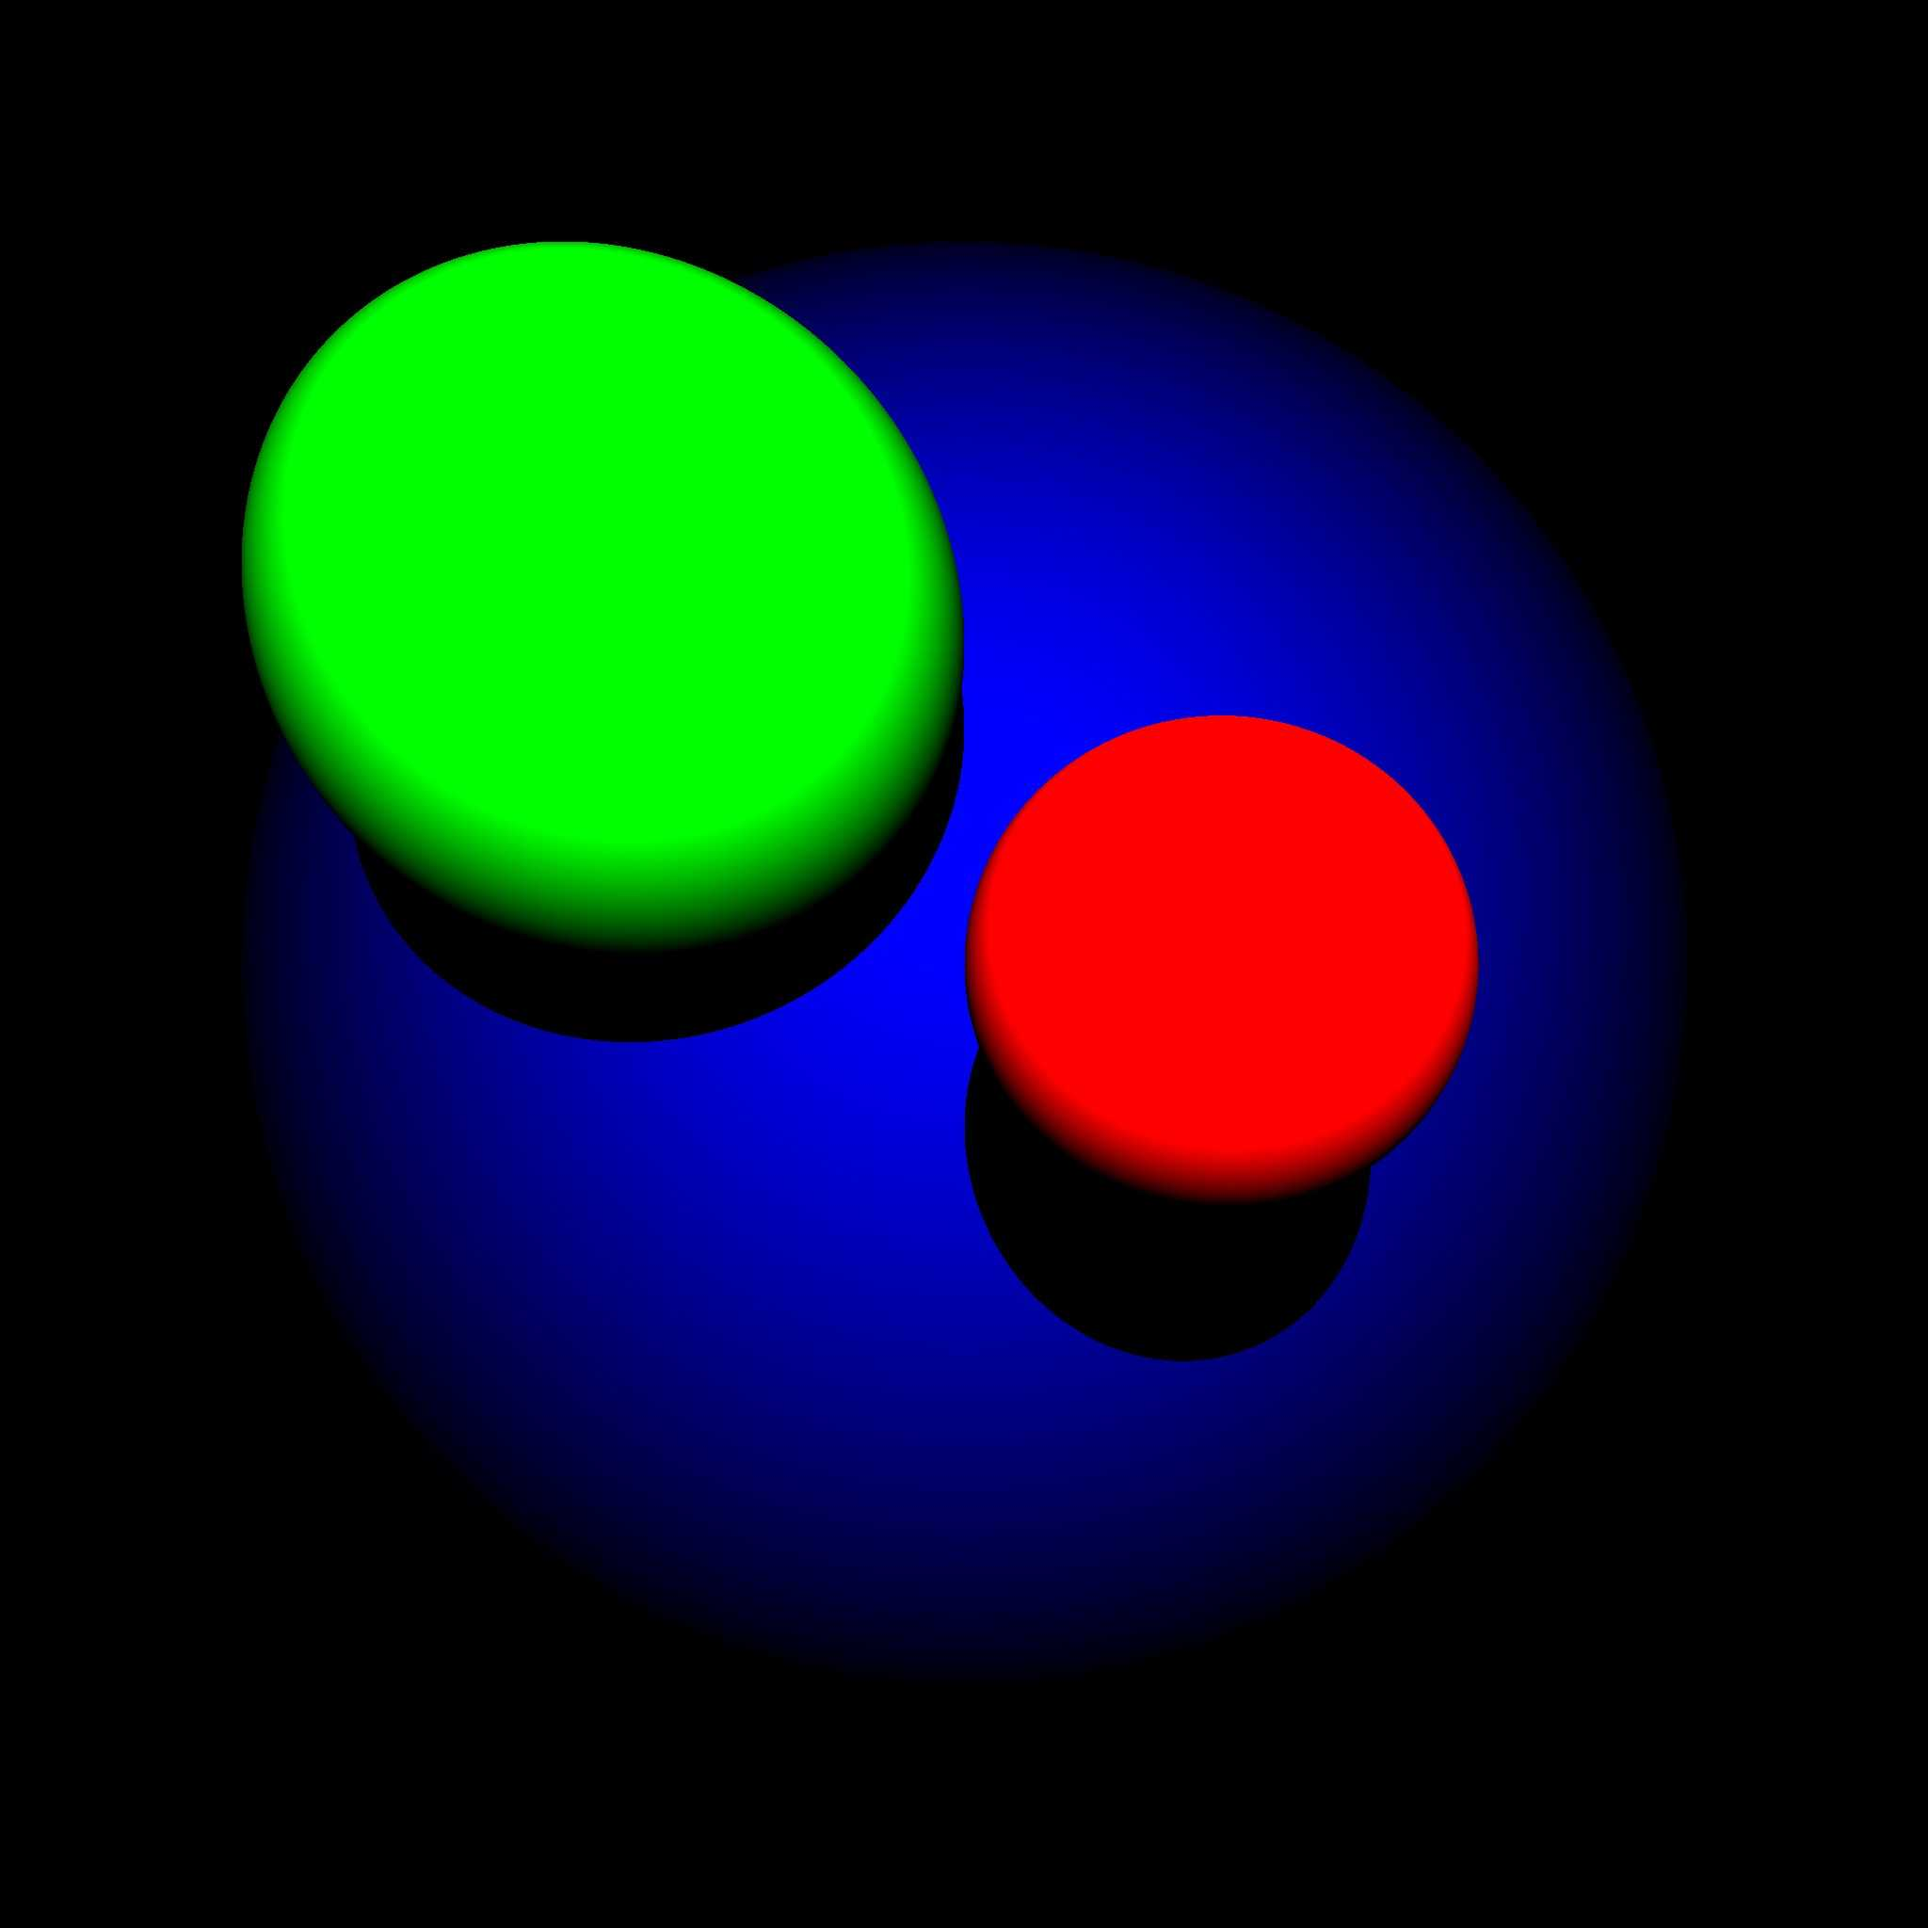
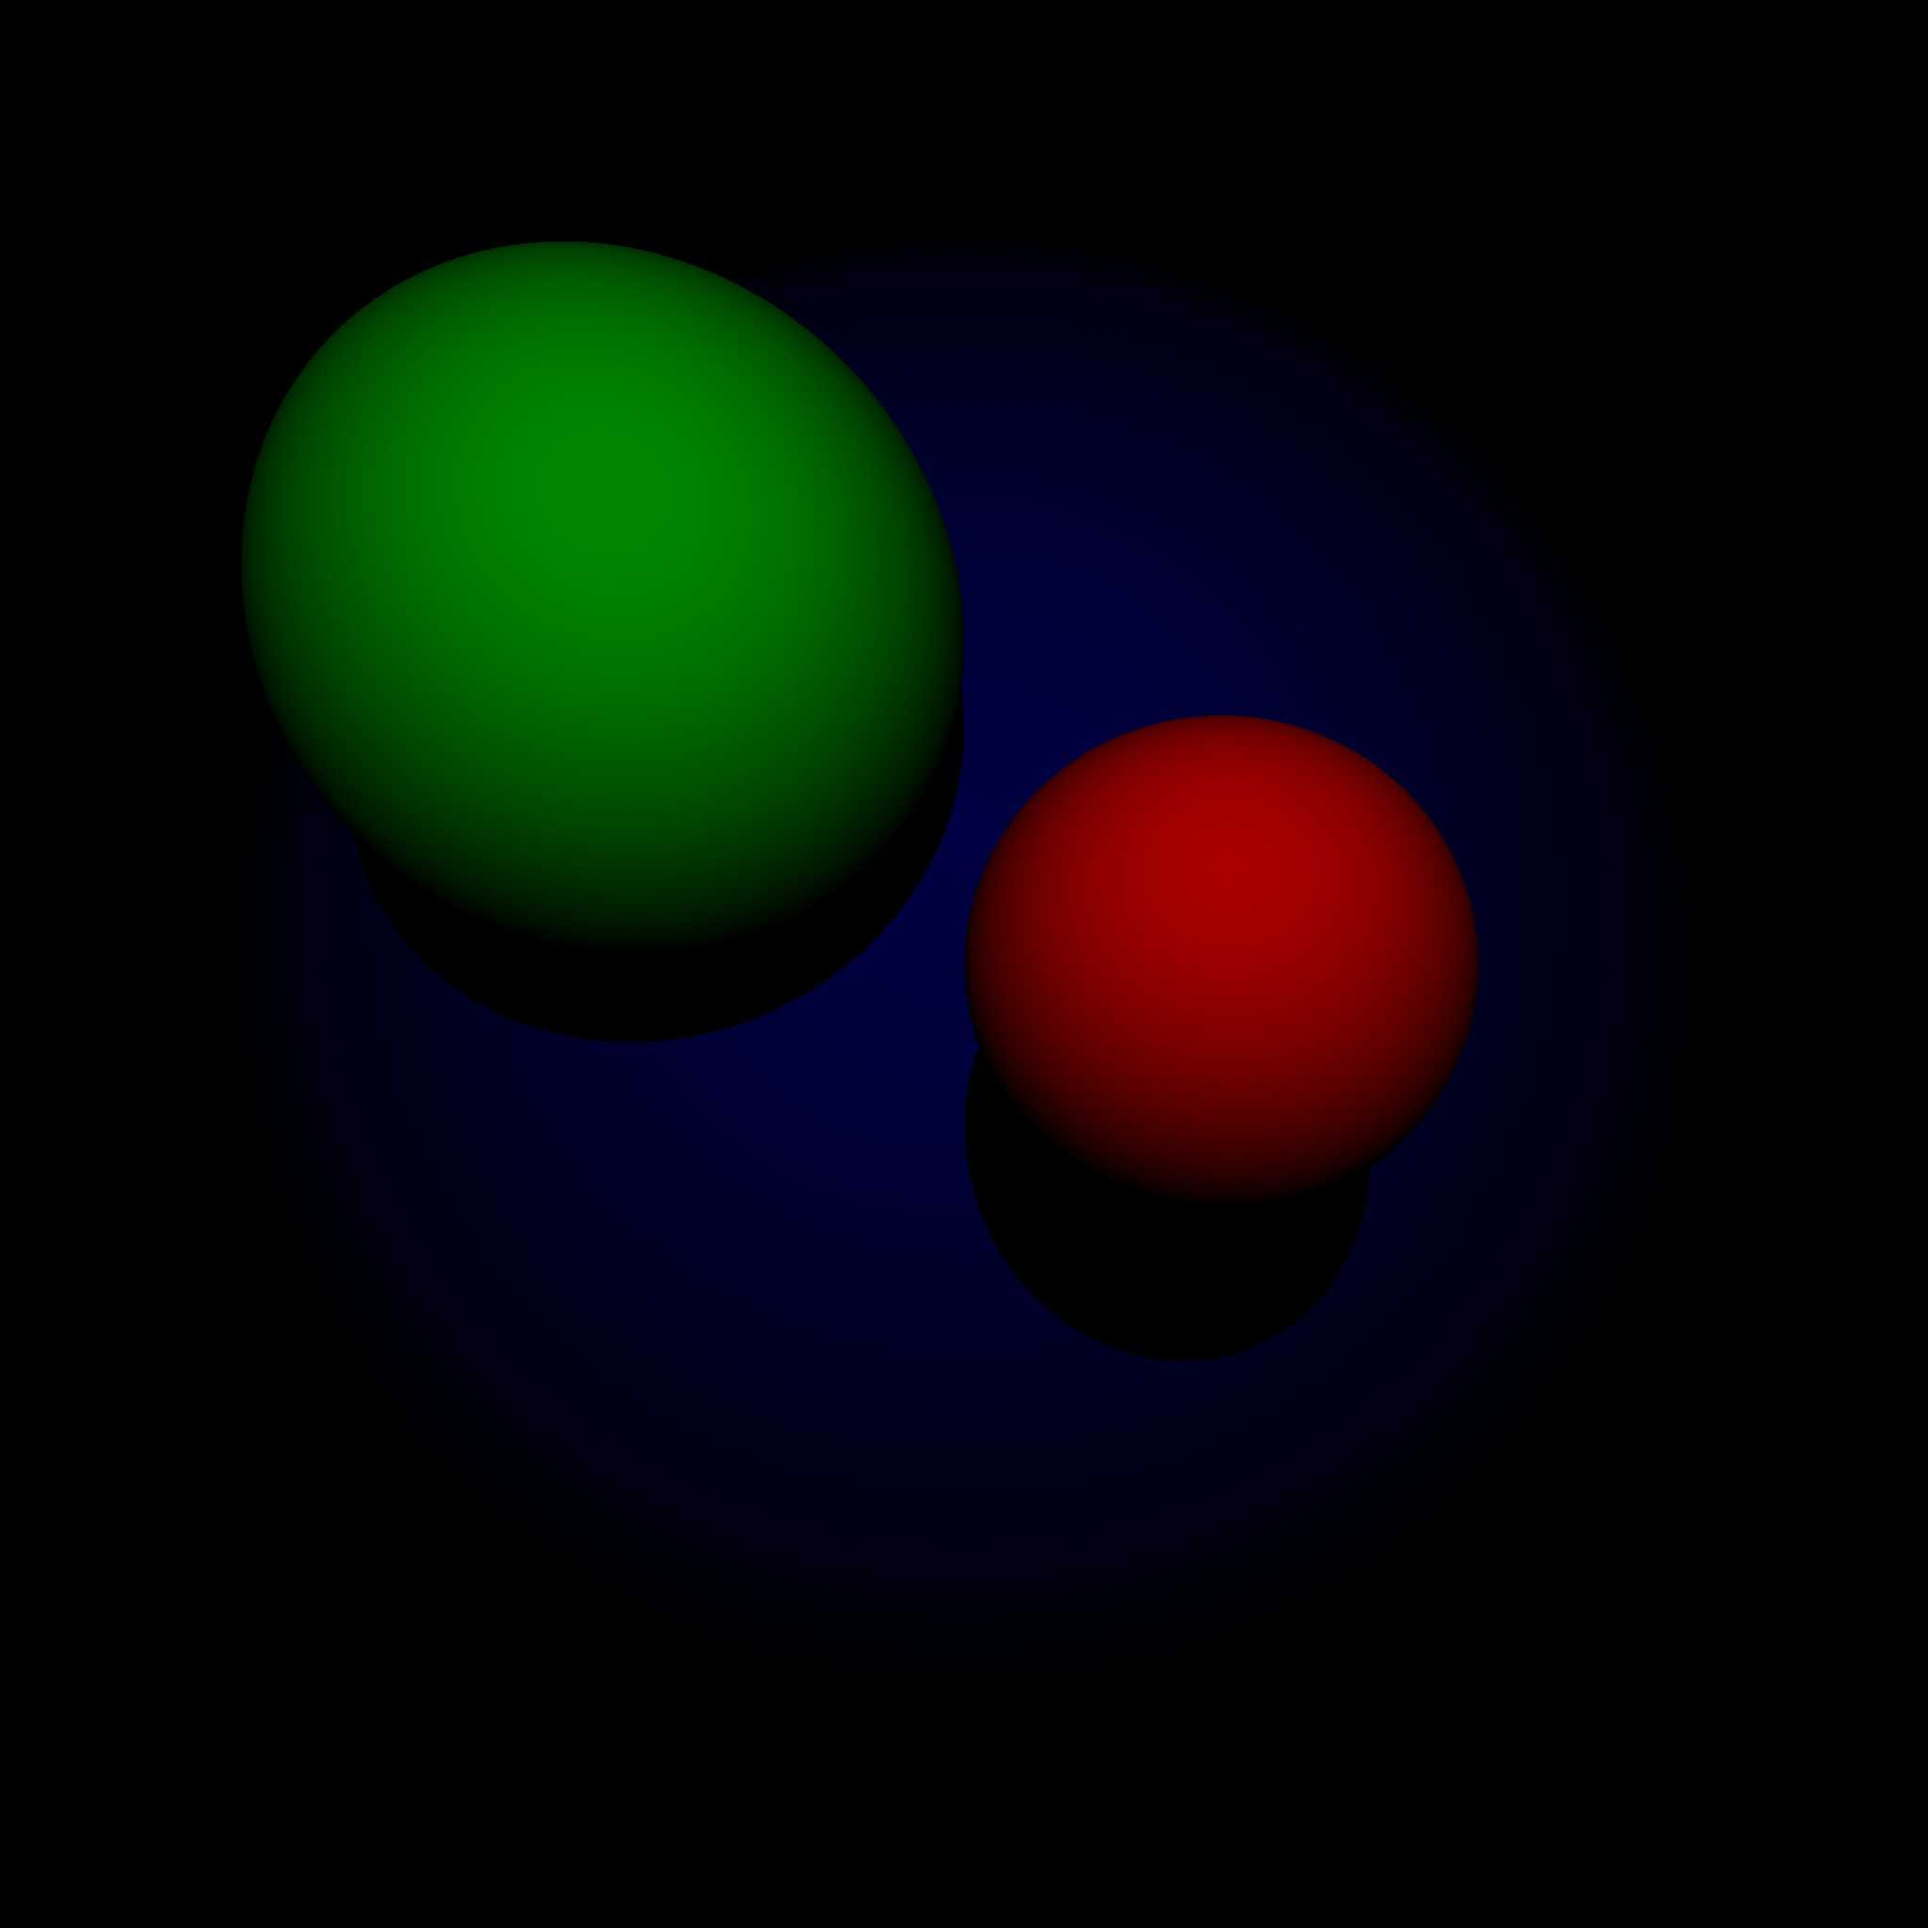
Lowered luminosity

diff --git a/source/Main.c b/source/Main.c
@@ -59,7 +59,7 @@ int main(int argc, char* argv[]) {
     SpheresNode_add(sphere3);
 
     Vector3D* light_centre = Vector3D_create(0, 1, -1); //free me TODO
-    double light_luminance = 10;
+    double light_luminance = 5;
 
     /*
      * Dimensions of image in space = 2x2, centered at the <0, 0, 1>
